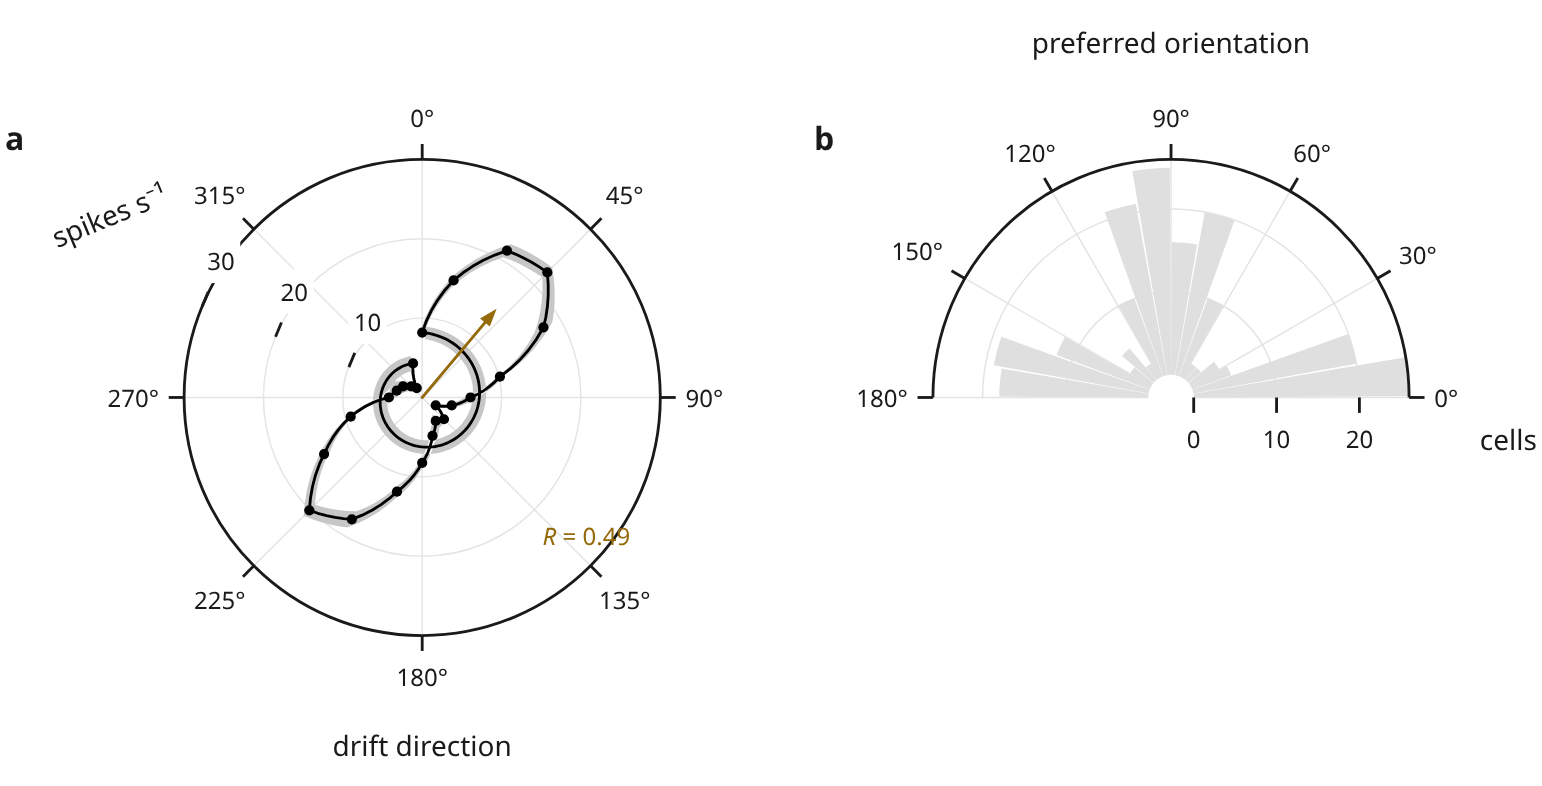
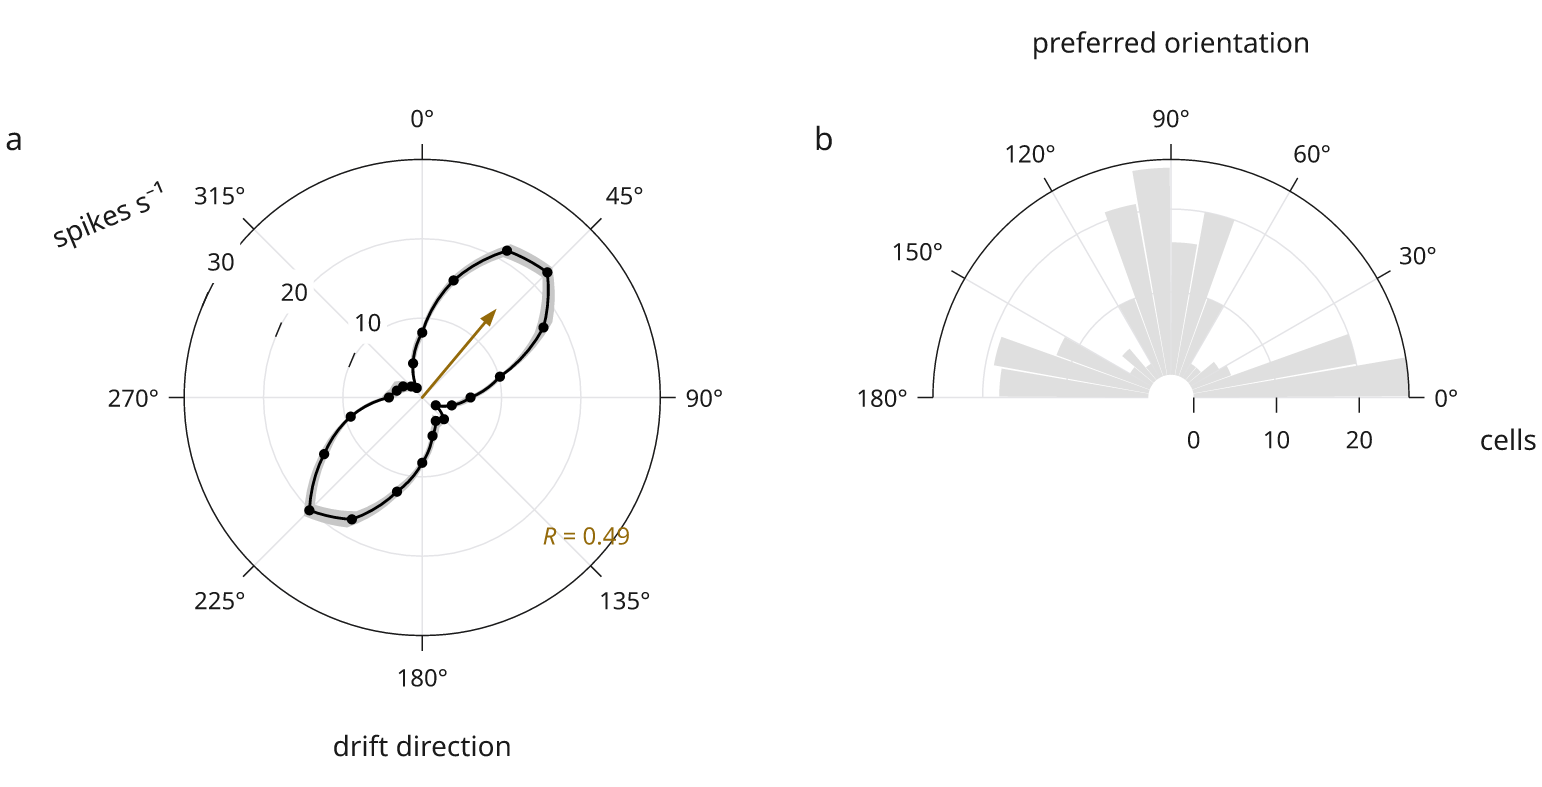
Fix closed polar curves and bands crossing the angular seam

diff --git a/src/inklet/plot/polar.py b/src/inklet/plot/polar.py
@@ -974,6 +974,9 @@ class PolarPanel:
         `closed` defaults to closing the curve on a whole-disc panel and
         leaving it open on a fan. A sample set that does not go all the way
         round a full panel wants `closed=False`.
+        Closure continues to the equivalent first angle in the direction
+        from the first to the last sample. Interior angles are used as given;
+        unwrap them explicitly when a sequence crosses the angular seam.
         """
         data = [(float(t), float(r)) for t, r in points]
         if len(data) < 2:
@@ -1306,7 +1309,16 @@ class PolarPanel:
     def _track(self, data: Sequence[tuple[float, float]], closed: bool,
                interpolate: bool) -> list[Vec2]:
         """The vertices of a polar path through `(theta, r)` samples."""
-        pairs = list(data) + ([data[0]] if closed and len(data) > 1 else [])
+        if len(data) < 2:
+            raise DiagramError("a polar track needs at least two points")
+        pairs = list(data)
+        if closed:
+            first, radius = data[0]
+            turns = (data[-1][0] - first) / self.theta.turn
+            # 330 -> 0 must finish at 360, not retrace the preceding 330
+            # degrees. Descending samples finish on the preceding turn.
+            end = first + (math.ceil(turns) if turns >= 0 else math.floor(turns)) * self.theta.turn
+            pairs.append((end, radius))
         if not interpolate:
             return [self.point(t, r) for t, r in pairs]
         out: list[Vec2] = [self.point(*pairs[0])]
@@ -1316,7 +1328,9 @@ class PolarPanel:
             for i in range(1, steps + 1):
                 f = i / steps
                 out.append(self.point(t0 + (t1 - t0) * f, r0 + (r1 - r0) * f))
-        return out[:-1] if closed else out
+        # Retain the endpoint: a band joins two individually closed tracks.
+        # Dropping it cuts a wedge out of the band at the angular seam.
+        return out
 
 
 # -- construction ---------------------------------------------------------

diff --git a/tests/test_plot_polar.py b/tests/test_plot_polar.py
@@ -284,6 +284,39 @@ def test_interpolation_can_be_turned_off() -> None:
     assert len(points) <= 13
 
 
+@pytest.mark.parametrize('unit,turn', [('deg',360), ('rad',2*math.pi), ('turn',1), ('grad',400)])
+@pytest.mark.parametrize('winding', ['cw','ccw'])
+@pytest.mark.parametrize('direction', [1,-1])
+def test_closed_curve_travels_once_around_the_pole(unit, turn, winding, direction):
+    angles = [direction*k*turn/12 for k in range(12)]
+    node = polar(20, r=(0,10), unit=unit, winding=winding).line(
+        [(a, 5 + math.cos(2*math.pi*a/turn)) for a in angles]).build()
+    points = _points(node, MARK_LINE_KIND)
+    increments = [math.atan2(a.x*b.y-a.y*b.x, a.x*b.x+a.y*b.y)
+                  for a,b in zip(points, points[1:])]
+    sign = direction*(1 if winding=='cw' else -1)
+    assert all(sign*delta >= -1e-12 for delta in increments)
+    assert sum(increments) == pytest.approx(sign*2*math.pi)
+
+
+@pytest.mark.parametrize('direction', [1,-1])
+@pytest.mark.parametrize('endpoint', [False,True])
+def test_closed_band_covers_the_annulus_without_a_seam_wedge(direction, endpoint):
+    angles = [direction*k*30 for k in range(13 if endpoint else 12)]
+    node = polar(20, r=(0,10)).band(angles, 2, 4).build()
+    points = _points(node, MARK_KIND)
+    area = abs(sum(a.x*b.y-b.x*a.y for a,b in zip(points, points[1:]+points[:1]))/2)
+    assert area == pytest.approx(math.pi*(8**2-4**2), rel=.001)
+
+
+def test_open_polar_curve_keeps_supplied_angular_direction():
+    node = polar(20, r=(0,10), winding='cw').line([(330,5),(0,5)], closed=False).build()
+    points = _points(node, MARK_LINE_KIND)
+    swept = sum(math.atan2(a.x*b.y-a.y*b.x,a.x*b.x+a.y*b.y)
+                for a,b in zip(points,points[1:]))
+    assert swept == pytest.approx(math.radians(-330))
+
+
 def test_a_rose_wedge_spans_its_own_bin() -> None:
     """Four bars over a whole turn are quadrants; `width` shrinks each one."""
     p = polar(20, r=(0, 4))

diff --git a/docs/polar-plots.md b/docs/polar-plots.md
@@ -16,6 +16,11 @@ The band contains supplied absolute radial bounds; the curve and observations
 share the same angle/radius mapping. `closed=True` joins the final sample back
 to the first around the circle.
 
+Closed curves complete the turn in sample order. Use `closed=False` for partial
+curves, and unwrap interior angles when the data crosses the 0°/360° seam.
+Small white backgrounds behind radial tick labels keep them readable over the
+grid and data; `r_axis(..., plate=False)` removes those backgrounds.
+
 ```python
 import inklet as i
 import math

diff --git a/CHANGELOG.md b/CHANGELOG.md
@@ -2,6 +2,10 @@
 
 ## Unreleased
 
+- Fix closed polar curves retracing the angular range and shaded bands crossing
+  themselves. Complete the closing arc in sample order and retain both band
+  endpoints; refresh polar previews and cover angular units and winding directions.
+
 - Reorganize documentation around plotting, interactive documents and microscopy.
   Add a searchable visual plot gallery and six guides with 22 rendered, runnable
   examples; check plot-family coverage, gallery links and guide execution.
